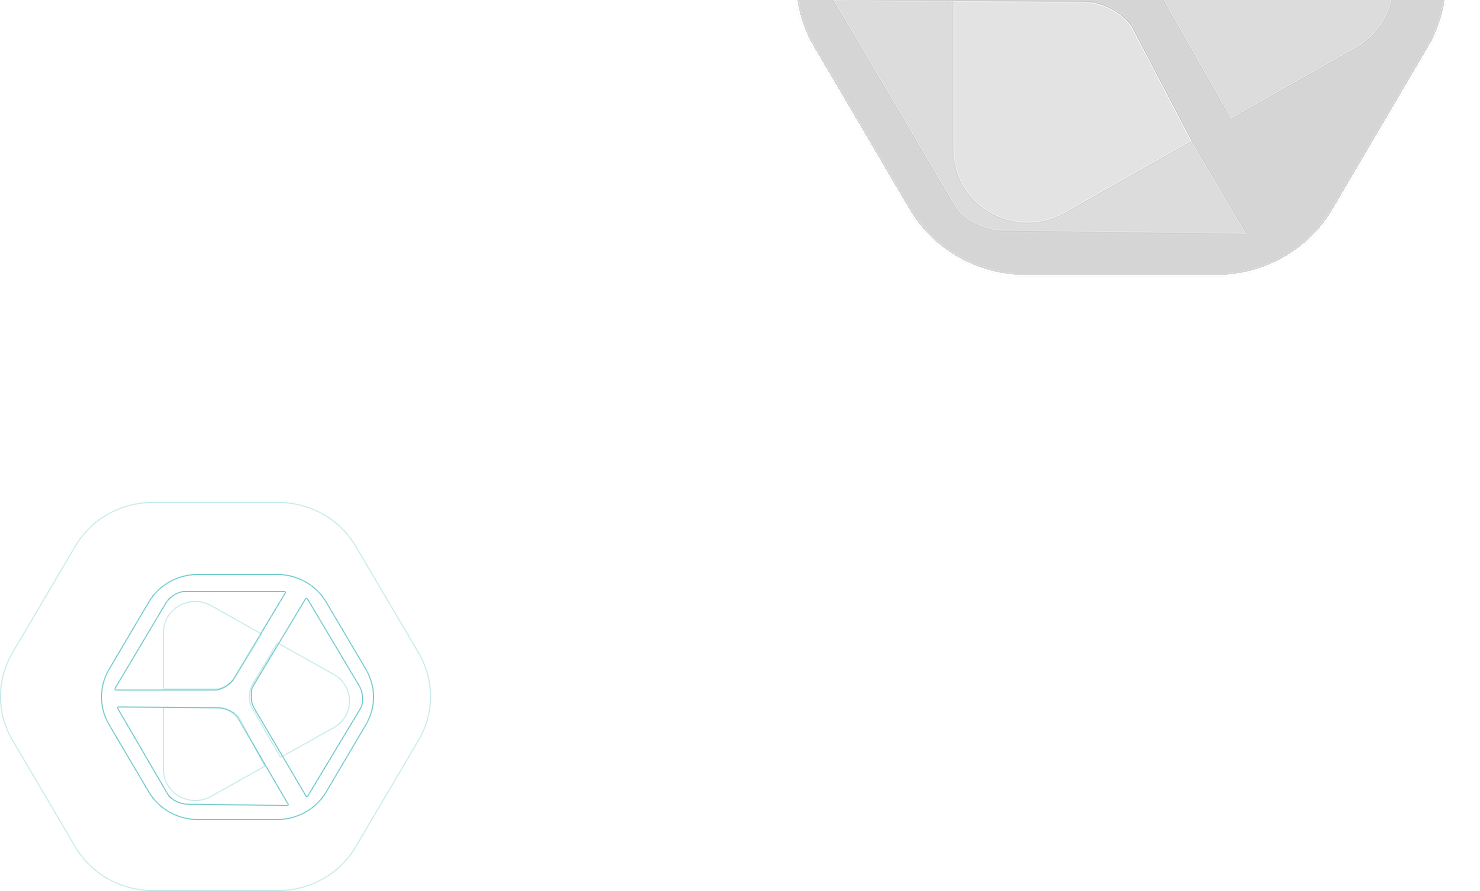
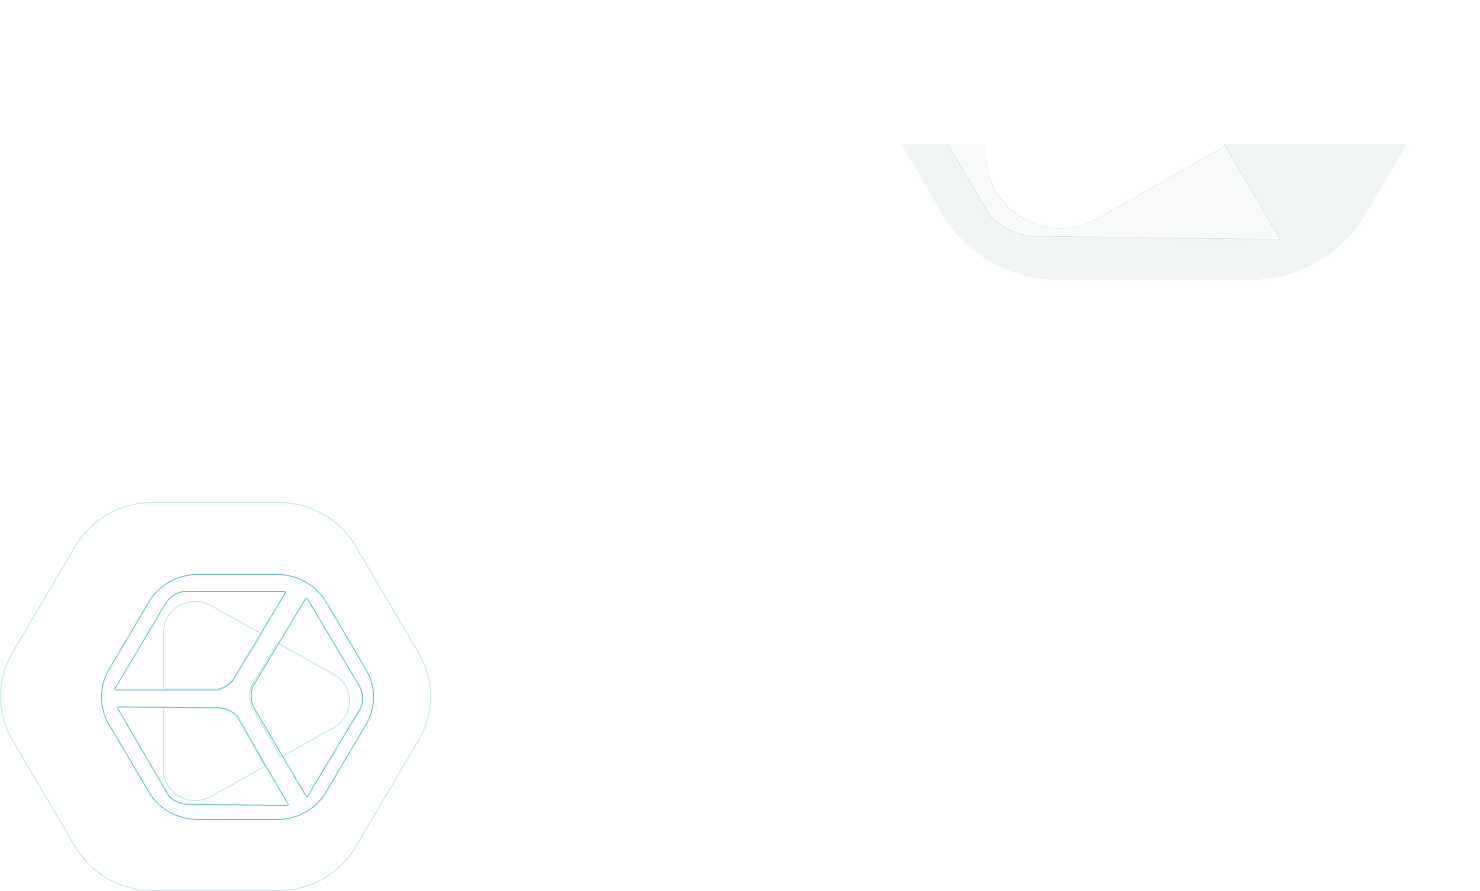
add some pci

Changed region(s): [[0.5284, 0.0, 0.9946, 0.3333]]

diff --git a/src/html/home.html b/src/html/home.html
@@ -84,7 +84,7 @@
 
           <div class="purpose box_in">
             <div class="ptext ppic">
-              <p></p><img src="img/pic1.png" alt="" /></p>
+              <p></p><img src="img/pic2.png" alt="" /></p>
             </div>
             <div class="ptext pright">
               <p class="title">你的桌面，你做主！</p>
@@ -104,7 +104,7 @@
               </p>
             </div>
             <div class="ptext ppic pright">
-              <p><img src="img/pic1.png" alt="" /></p>
+              <p><img src="img/pic3.png" alt="" /></p>
             </div>
           </div>
           
